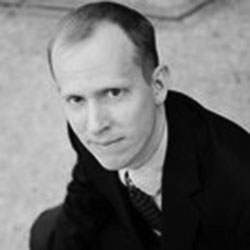
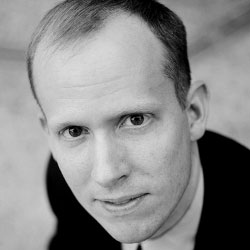
Updates team page

diff --git a/index.html b/index.html
@@ -72,12 +72,13 @@ ssssssssssssssssssssssssssssssssssssssssssssssssssssssssssssssssssssssssssssssss
       <link href="styles/ie.css" rel="stylesheet">
     <![endif]-->
   </head>
-  <body>
+  <body id="skrollr-body">
     <!-- begin slideshow -->
     <div class="jumbotron 18f-hero slideshow-wrapper">
       <div id="slideshow">
         <div class="slide" style="background-image: url(images/slideshow/flickr-bay-bridges.jpg); background-position: 25% 40%;" data-caption="<a href='http://www.flickr.com/photos/photogism/9903236524'>New and old San Francisco Bay Bridge at sunset (Shelly Prevost on Flickr)</a>"></div>
         <div class="slide" style="background-image: url(images/slideshow/flickr-wind-technology.jpg); background-position: left top;" data-caption="<a href='http://www.flickr.com/photos/departmentofenergy/9396316654/'>National Renewable Energy Laboratory (ENERGY.GOV)</a>"></div>
+        <div class="slide" style="background-image: url(images/slideshow/flickr-buzz-aldrin.jpg); background-position: center top;" data-caption="<a href='http://grin.hq.nasa.gov/ABSTRACTS/GPN-2001-000013.html'>Buzz Aldrin on the Moon (NASA)</a>"></div>
       </div>
       <img src="images/logo-18f.png" alt="18F logo" class="fadeIn" />
       <div class="container-fluid fadeIn">
@@ -94,15 +95,18 @@ ssssssssssssssssssssssssssssssssssssssssssssssssssssssssssssssssssssssssssssssss
             <strong>Delivery</strong> is the strategy.
           </h2>
           <p>
-            <strong>18F builds effective, user-centric digital services focused on the interaction between government and the people and businesses it serves.</strong> We help agencies deliver on their mission through the development of digital and web services. Our newly formed organization, within the <a href="http://gsa.gov">General Services Administration</a>, encompasses the <a href="http://wh.gov/innovationfellows">Presidential Innovation Fellows</a> program and a rockstar digital delivery team.
+            <strong>18F builds effective, user-centric digital services focused on the interaction between government and the people and businesses it serves.</strong> We work with agencies to solve the nation’s biggest problems through digital and web services. Our newly formed organization, within the <a href="http://gsa.gov">General Services Administration</a>, encompasses the <a href="http://wh.gov/innovationfellows">Presidential Innovation Fellows</a> program and a rockstar digital delivery team.
           </p>
           <p>
-            18F is a startup within GSA &mdash; the agency responsible for government procurement &mdash; giving us the power to make small changes with big effect. We’re doers, recruited from industry and the most innovative corners of public service, who are passionate about <a href="http://en.wikipedia.org/wiki/Hacker_(programmer_subculture)#Definition">&quot;hacking&quot;</a> bureaucracy to drive efficiency, transparency, and savings for government agencies and the American people. <strong>We make easy things easy, and hard things possible.</strong>
+            18F is a startup within GSA &mdash; the agency responsible for government procurement &mdash; giving us the power to make small changes with big effect. We’re doers, recruited from industry and the most innovative corners of public service, who are passionate about &quot;hacking&quot; bureaucracy to drive efficiency, transparency, and savings for government agencies and the American people. <strong>We make easy things easy, and hard things possible.</strong>
           </p>
         </div>
       </div>
     </div>
-    <div class="jumbotron header blog">
+    <div class="jumbotron header blog"
+        data-bottom-center="background-position: 50% 0%"
+        data-70p="background-position: 50% 22%"
+        data-top="background-position: 50% 22%">
       <div class="container-fluid">
         <h3>
           &lt; news /&gt;
@@ -176,15 +180,16 @@ ssssssssssssssssssssssssssssssssssssssssssssssssssssssssssssssssssssssssssssssss
         </div>
       </div>
     </div>
-
-    <div class="jumbotron header blog">
+    <div class="jumbotron header team"
+        data-bottom-center="background-position: 50% 5%"
+        data-70p="background-position: 50% 32%"
+        data-top="background-position: 50% 32%">
       <div class="container-fluid">
         <h3>
           &lt; team /&gt;
         </h3>
       </div>
     </div>
-
     <div class="team">
       <div class="container">
         <div class="row">
@@ -303,6 +308,16 @@ ssssssssssssssssssssssssssssssssssssssssssssssssssssssssssssssssssssssssssssssss
         </div>
         <div class="row">
           <!--  -->
+          <!-- <div class="col-md-3 col-sm-4 col-xs-6 bio">
+            <img class="img-circle" src="images/team/alison-bw.jpg" data-color="images/team/alison.jpg">
+            <h4>Alison Rowland</h4>
+            <span class="title">Agent</span><br />
+            <a href="http://github.com/arowla" target="_blank" class="no-decoration">
+              <i class="icon-github2"></i>
+            </a>
+            <a href="http://github.com/arowla" target="_blank">github.com/arowla</a><br/>
+          </div> -->
+          <!--  -->
           <div class="col-md-3 col-sm-6 col-xs-6 bio">
             <img class="img-circle" src="images/team/aaron-bw.jpg" data-color="images/team/aaron.jpg">
             <h4>Aaron Snow</h4>
@@ -315,6 +330,20 @@ ssssssssssssssssssssssssssssssssssssssssssssssssssssssssssssssssssssssssssssssss
               <i class="icon-anchor"></i>
             </a>
             <a href="http://angel.co/aaronsnow" target="_blank">angel.co/aaronsnow</a><br/>
+          </div>
+          <!--  -->
+          <div class="col-md-3 col-sm-4 col-xs-6 bio">
+            <img class="img-circle" src="images/team/amos-bw.jpg" data-color="images/team/amos.jpg">
+            <h4>J. Amos Stone</h4>
+            <span class="title">Agent</span><br />
+            <a href="http://github.com/amoose" target="_blank" class="no-decoration">
+              <i class="icon-github2"></i>
+            </a>
+            <a href="http://github.com/amoose" target="_blank">github.com/amoose</a><br/>
+            <a href="http://last.fm/user/infamousamos" target="_blank" class="no-decoration">
+              <i class="icon-lastfm"></i>
+            </a>
+            <a href="http://last.fm/user/infamousamos" target="_blank">last.fm/user/infamousamos</a><br/>
           </div>
           <!--  -->
           <div class="col-md-3 col-sm-6 col-xs-6 bio">
@@ -349,7 +378,6 @@ ssssssssssssssssssssssssssssssssssssssssssssssssssssssssssssssssssssssssssssssss
         </div>
       </div>
     </div>
-
     <div class="footer">
       <div class="container">
         <div class="row">
@@ -374,11 +402,12 @@ ssssssssssssssssssssssssssssssssssssssssssssssssssssssssssssssssssssssssssssssss
     </div>
     <script src="//ajax.googleapis.com/ajax/libs/jquery/1.11.0/jquery.min.js"></script>
     <!-- Include all compiled plugins (below), or include individual files as needed -->
-    <!-- // <script src="js/jquery-dotdotdot/src/js/jquery.dotdotdot.js"></script> -->
-    <!-- // <script src="js/18f.js"></script> -->
-    <!-- // <script src="js/slideshow.js"></script> -->
+<!--     // <script src="js/jquery-dotdotdot/src/js/jquery.dotdotdot.js"></script>
+    // <script src="js/skrollr/src/skrollr.js"></script>
+    // <script src="js/slideshow.js"></script>
+    // <script src="js/18f.js"></script> -->
     <script src="js/18f.min.js"></script>
-    
+
     <script>
       (function(i,s,o,g,r,a,m){i['GoogleAnalyticsObject']=r;i[r]=i[r]||function(){
       (i[r].q=i[r].q||[]).push(arguments)},i[r].l=1*new Date();a=s.createElement(o),
